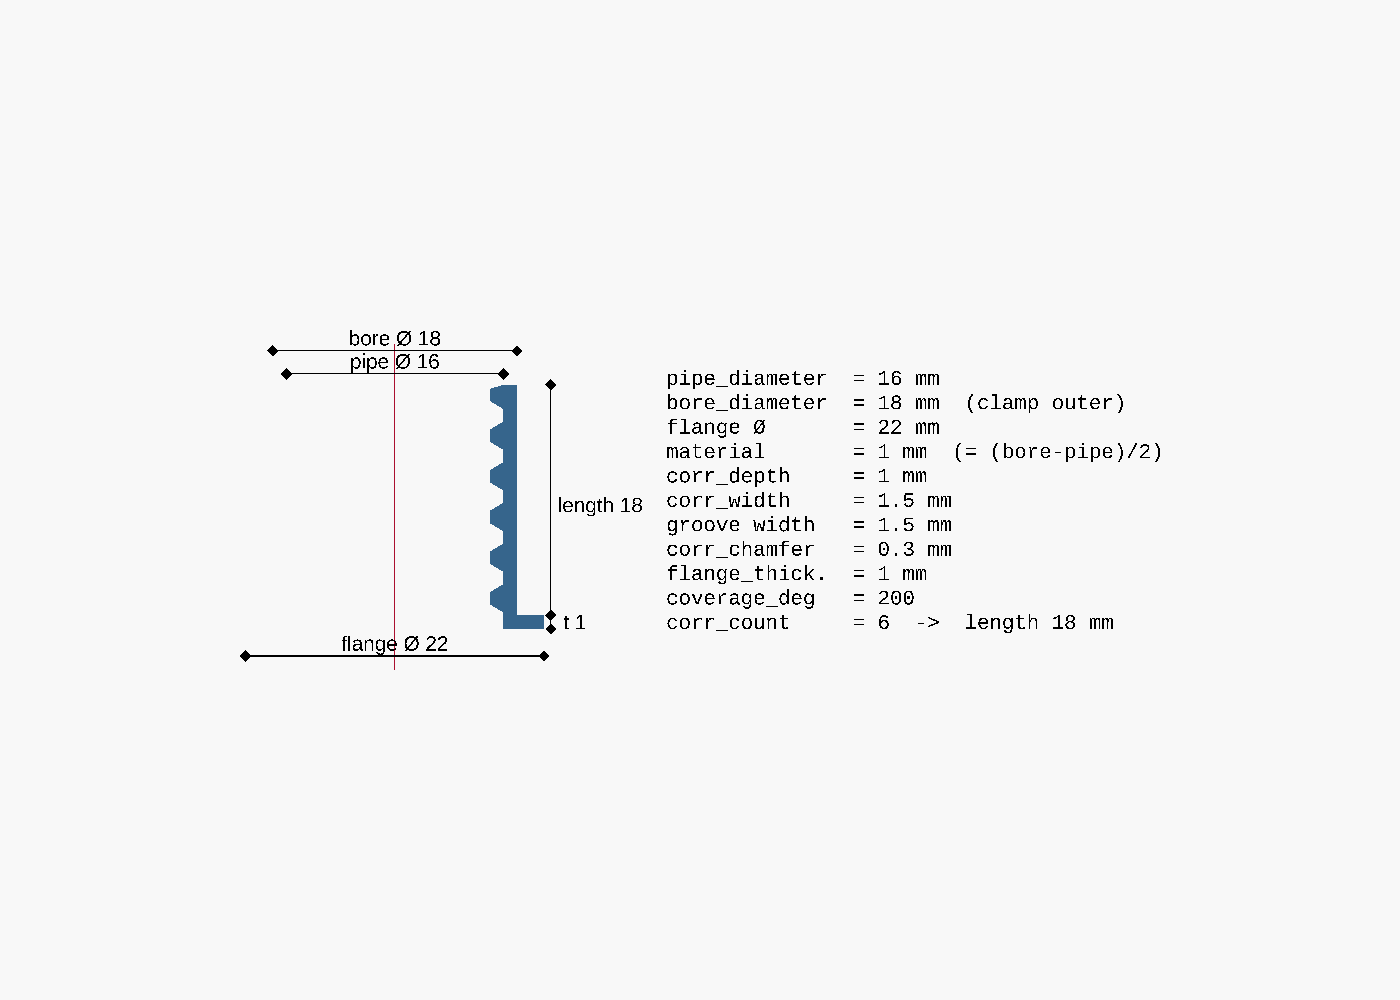
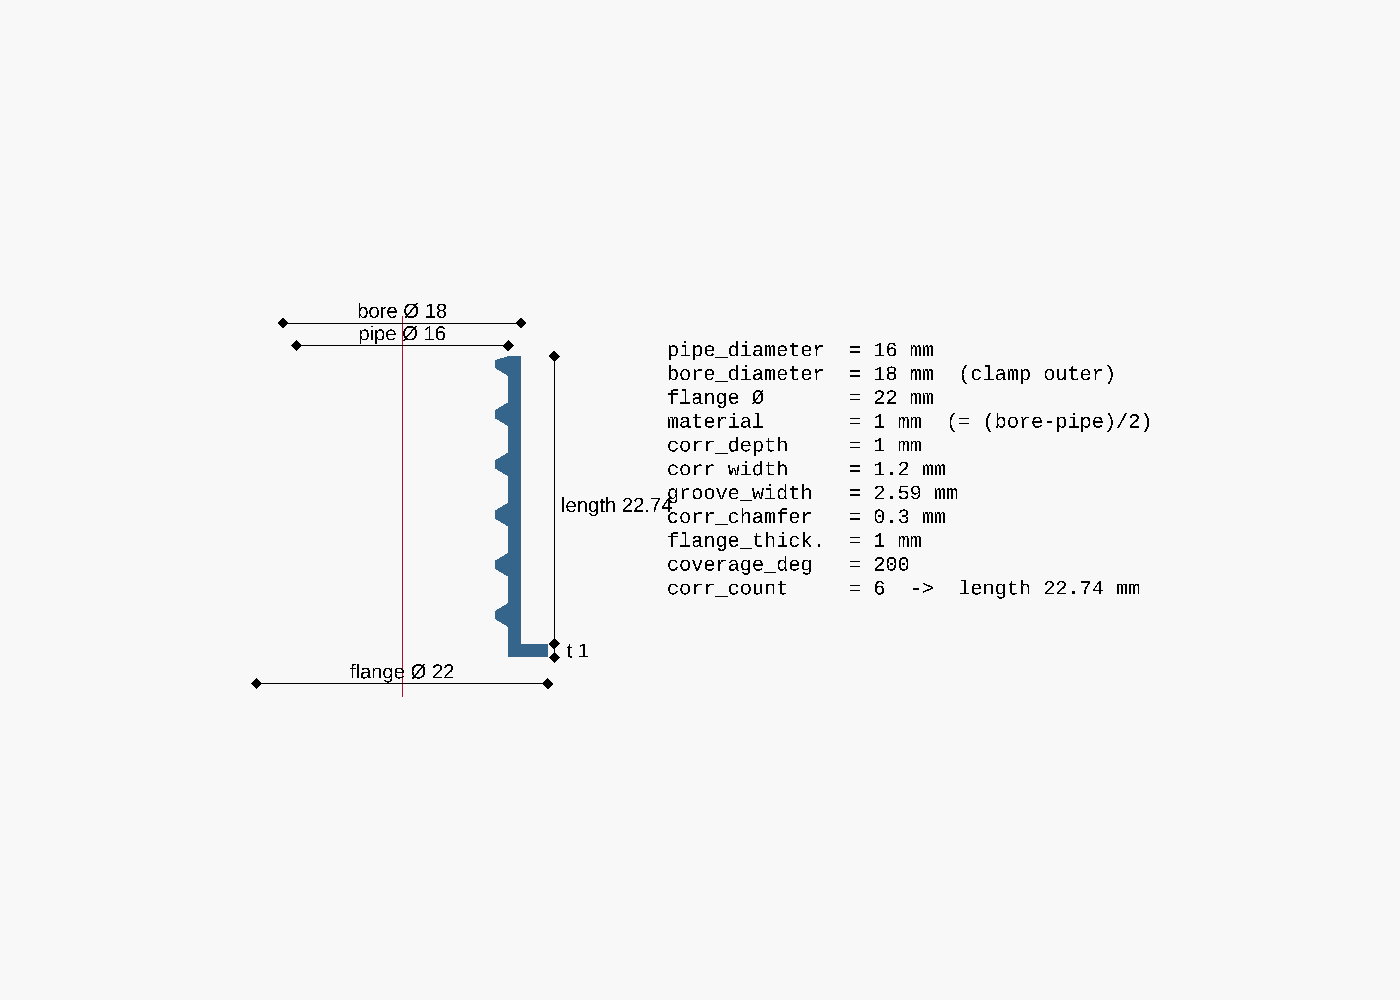
Set defaults to measured 16 mm conduit profile (pitch 3.79, 1.2/2.59)

diff --git a/README.md b/README.md
@@ -12,8 +12,9 @@ geometry updates automatically. All dimensions are in **millimetres**.
 ## Rendering example
 
 All images below are rendered from the **default parameter values** in the
-[parameter table](#parameters) further down (16 mm conduit, 18 mm wall hole, 200° coverage,
-6 corrugations); only the camera angle differs between the 3D views.
+[parameter table](#parameters) further down — a 16 mm conduit with 18 mm wall hole, 200°
+coverage, and a corrugation profile measured off a real pipe (pitch 3.79 mm: 1.2 mm valley
++ 2.59 mm crest). Only the camera angle differs between the 3D views.
 
 ![Pipe clamp render](images/pipe_clamp.png)
 
@@ -24,7 +25,7 @@ circumferential grip teeth and a flange lip at one end. Computed result:
 Available material (radial): 1 mm
 Clamp body outer Ø: 18 mm     (= bore_diameter)
 Flange Ø: 22 mm               (= pipe_diameter + 2·flange_overhang)
-Length: 18 mm
+Length: 22.74 mm              (= corr_count · pitch = 6 · 3.79)
 ```
 
 ### Dimensioned drawing
@@ -52,8 +53,8 @@ All renders above (the 3D views and the dimensioned drawing) are regenerated by
 | `pipe_diameter` | `16` | Outer (crest) diameter of the corrugated conduit (mm) |
 | `bore_diameter` | `18` | Hole the clamp passes through = clamp body outer Ø (mm) |
 | `corr_depth` | `1` | How far the grip teeth bite into the conduit grooves (mm) |
-| `corr_width` | `1.5` | Width of each grip tooth along the pipe axis (mm) |
-| `groove_width` | `1.5` | Width of each recess (over a crest) along the axis (mm) |
+| `corr_width` | `1.2` | Width of each grip tooth along the pipe axis (mm) |
+| `groove_width` | `2.59` | Width of each recess (over a crest) along the axis (mm) |
 | `corr_chamfer` | `0.3` | Bevel on the tooth/recess edges (mm); `0` = sharp square teeth |
 | `corr_count` | `6` | Number of corrugation periods → sets the length |
 | `coverage_deg` | `200` | Degrees of the pipe circumference covered |
@@ -76,6 +77,8 @@ You give the two diameters and the rest is **derived**:
   be ≤ half the smaller of `corr_width`/`groove_width` (asserted in the model).
 - Flange Ø = `pipe_diameter + 2·flange_overhang` (here 22 mm) — catches on the wall hole.
 - Length = `corr_count · (corr_width + groove_width)` (always whole corrugation periods).
+  The defaults were measured off a real 16 mm conduit: 6 corrugations spanned 22.74 mm
+  (pitch 3.79 mm = 1.2 mm valley + 2.59 mm crest).
 
 `bore_diameter` must be larger than `pipe_diameter` (asserted in the model). A coverage
 above 180° gives a snap-fit grip onto the pipe.
